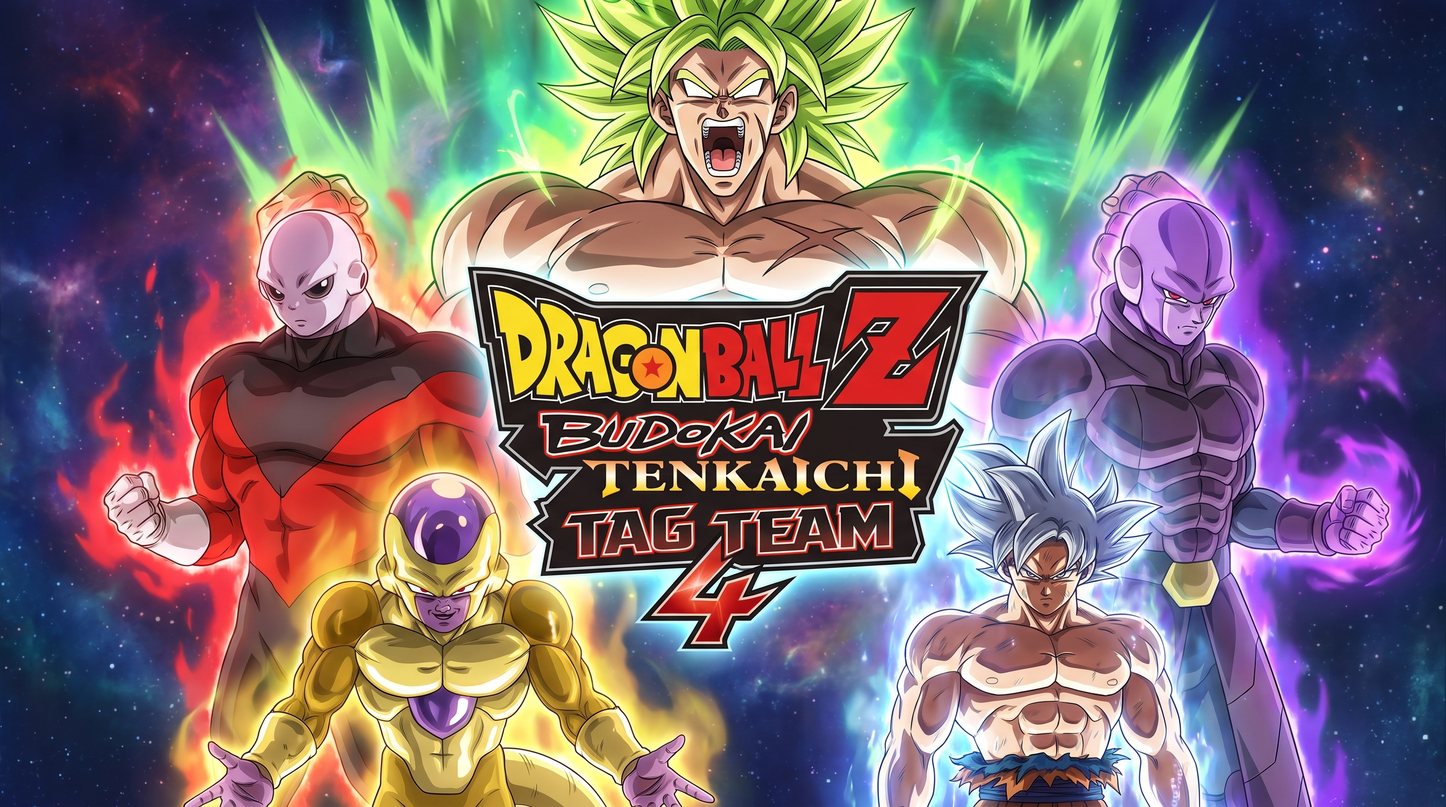
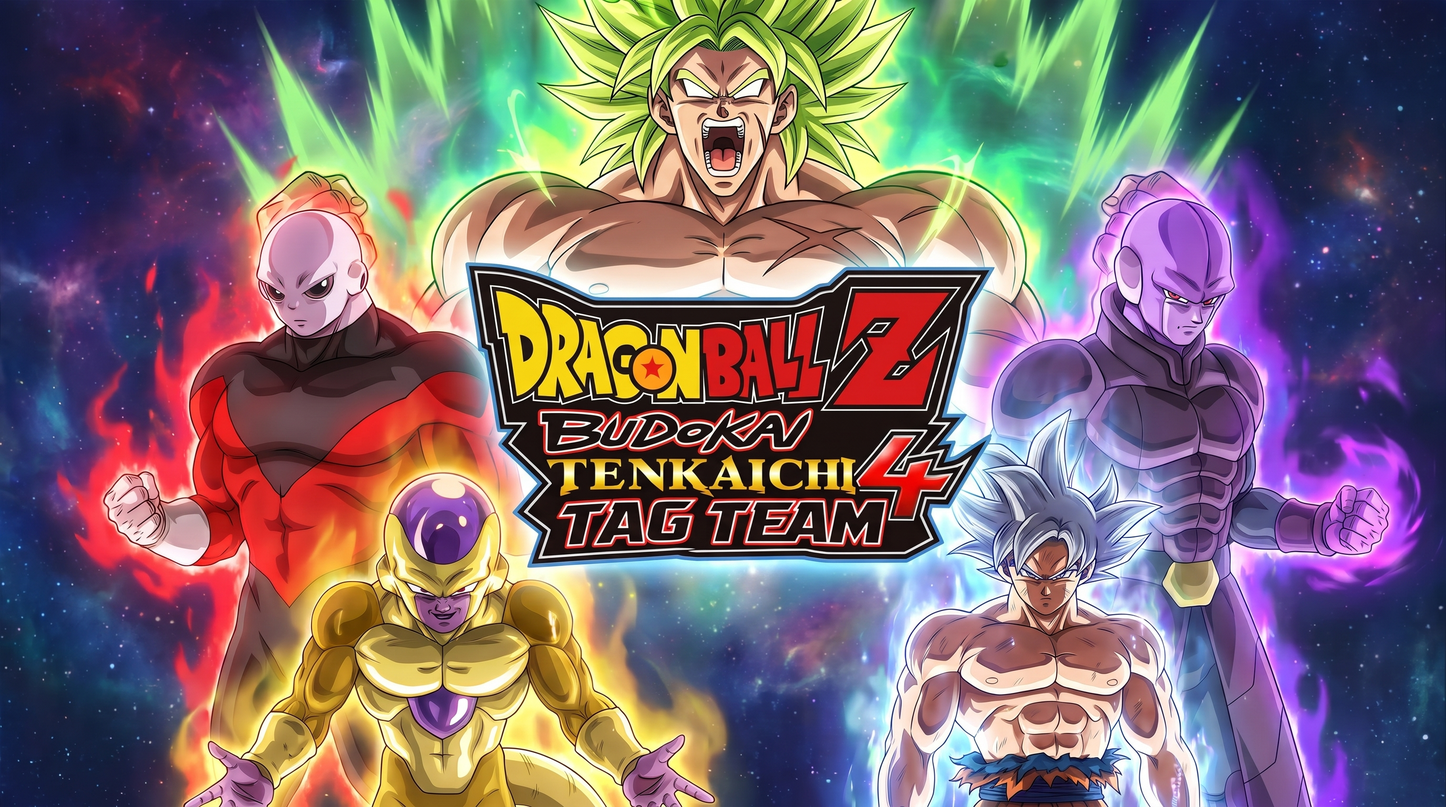
Prepare BT4 Tag Team R16-rc1 private review preview

diff --git a/README.md b/README.md
@@ -70,5 +70,6 @@ BT4 content belongs to its respective authors. Game data must be supplied
 by the player. Retained licenses are [AGPL](LICENSE), [MIT](LICENSE-MIT)
 and the third-party notices shipped with the runtime and voice libraries.
 
-Presentation artwork: option 3 selected by the maintainer. The game icon is
+Presentation artwork: `Gemini_Generated_Image_46di9146di9146di.jpg`, selected
+by the maintainer from Drive. The game icon is
 the supplied `icon_game.ico`; artwork and icon retain their respective rights.

diff --git a/docs/presentation/CREDITS.md b/docs/presentation/CREDITS.md
@@ -1,0 +1,1 @@
+Presentation selected by the maintainer: `Gemini_Generated_Image_46di9146di9146di.jpg`, supplied through Drive. Icon: supplied `icon_game.ico`. Respective rights are retained by their owners.
